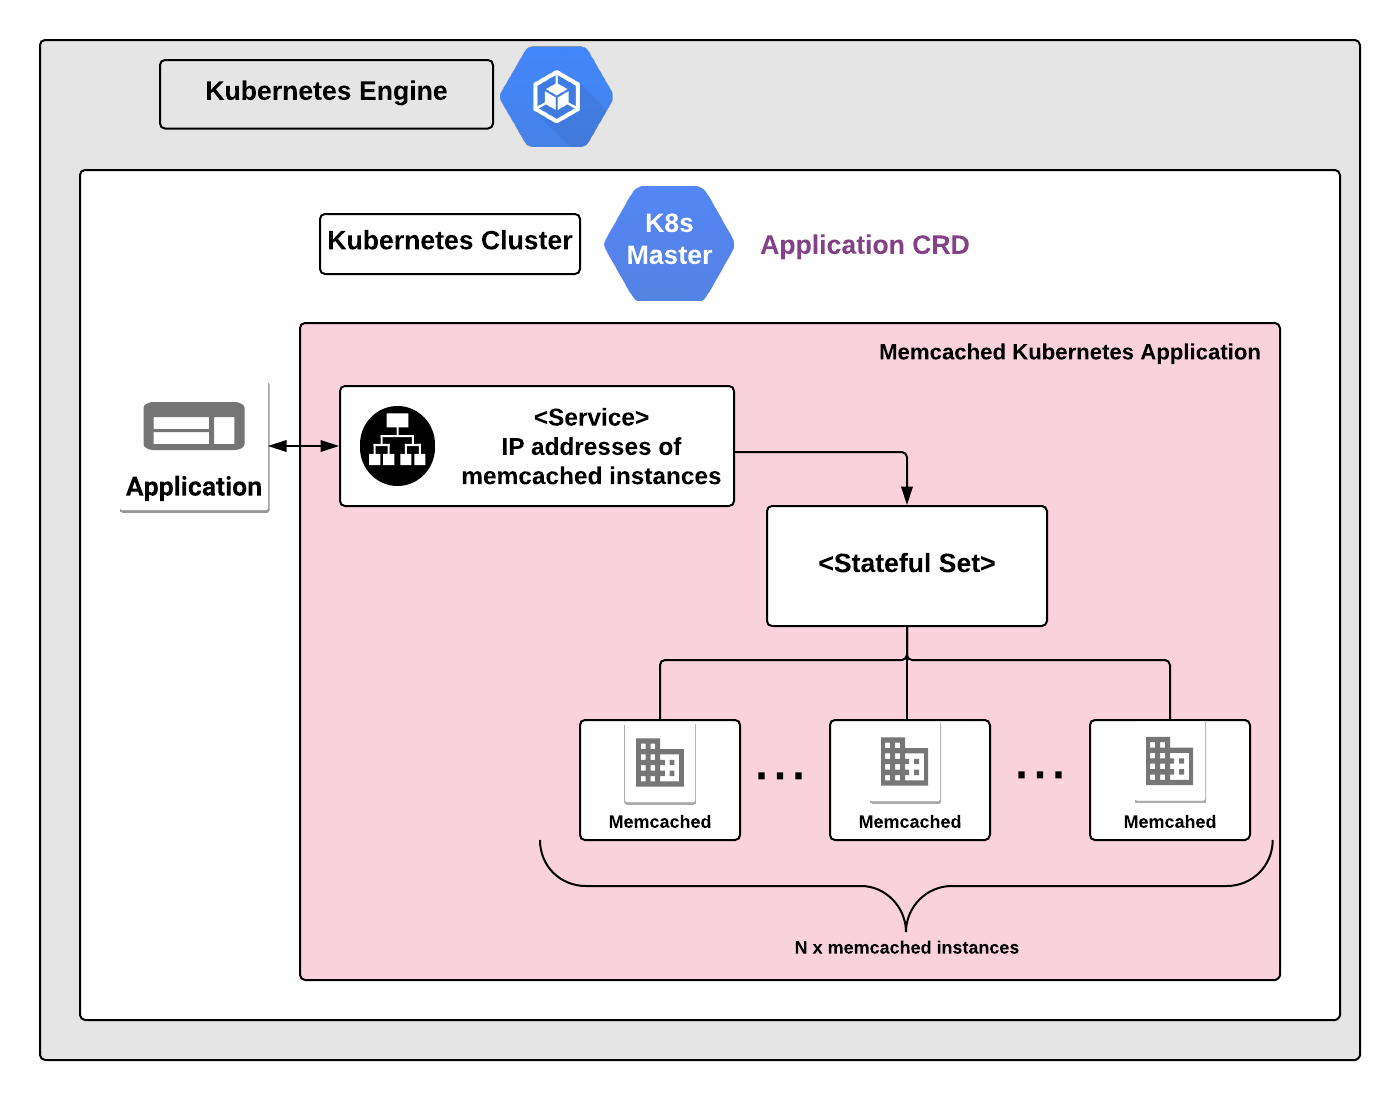
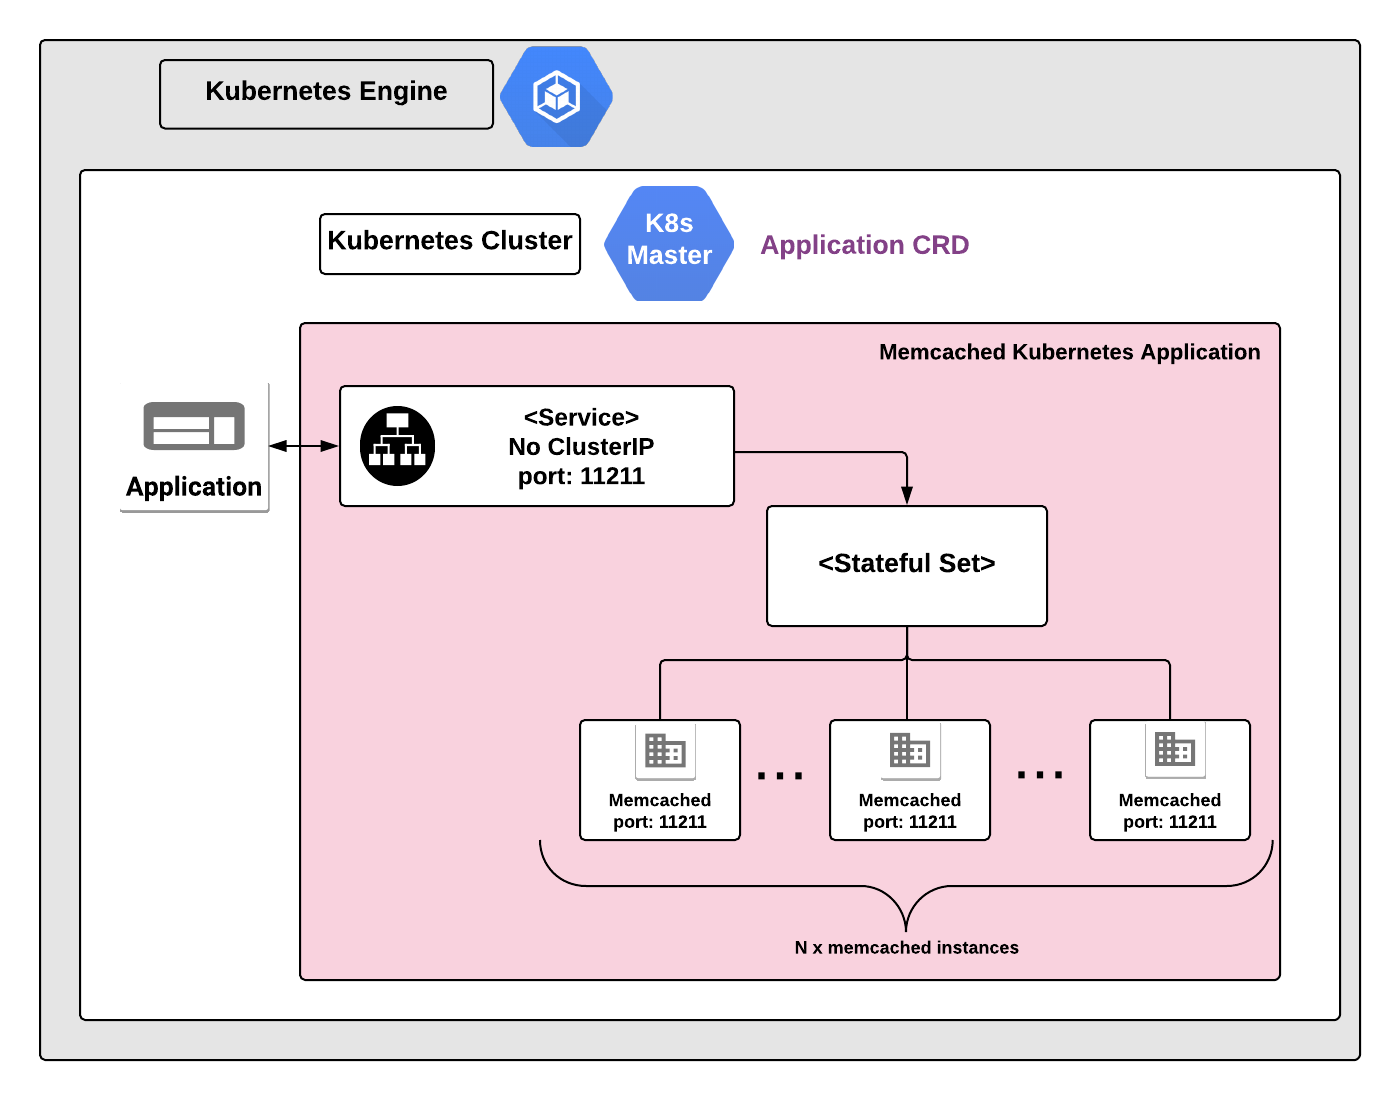
README updated with design info

diff --git a/k8s/memcached/README.md b/k8s/memcached/README.md
@@ -15,6 +15,12 @@ Popular open stacks on Kubernetes packaged by Google.
 
 ### Solution Information
 
+StatefulSet Kubernetes object is used to manage all Memcached pods within this K8s application. Each pod runs a single instance of Memcached process which listens on 11211 TCP port.
+
+All pods are behind Service object. Memcached service is not exposed to the external traffic as this Memcached K8s application is meant to be an internal cache of a system
+and memory of Memcached instances is not encrypted in any way and communication to Memcached instances happens over plain text.
+Memcached Service also doesn’t have a service IP address to allow for discovery of IP addresses of all Memcached pods.
+Usually, Memcached clients discover IP addresses of Memcached instances on their own and implement a mechanism to query and to distribute their requests to the pool of Memcached instances.
 
 ## Quick install with Google Cloud Marketplace
 
